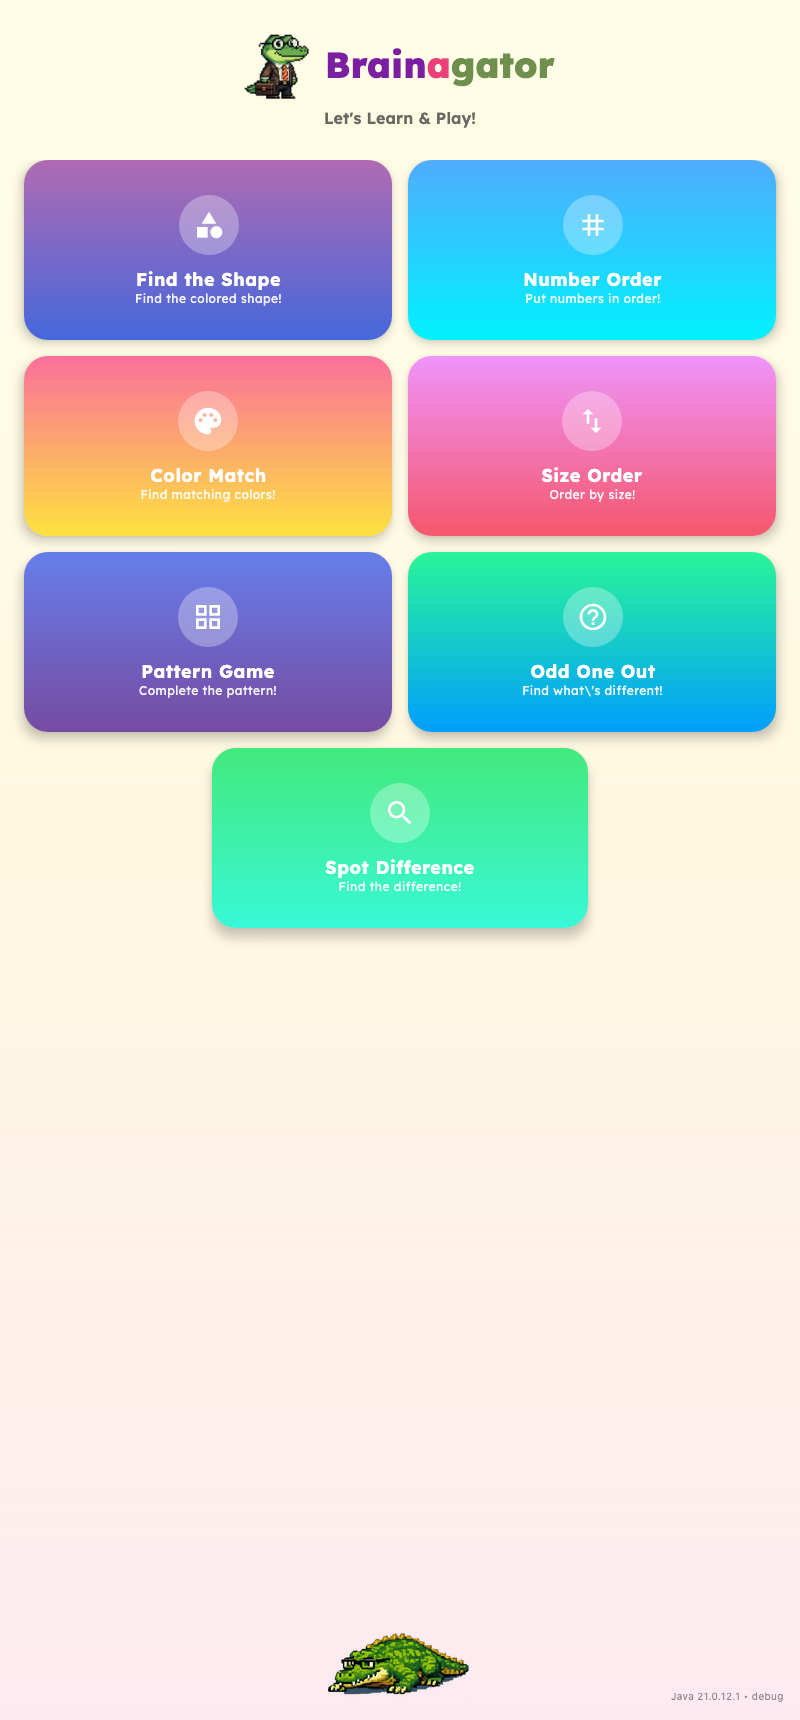
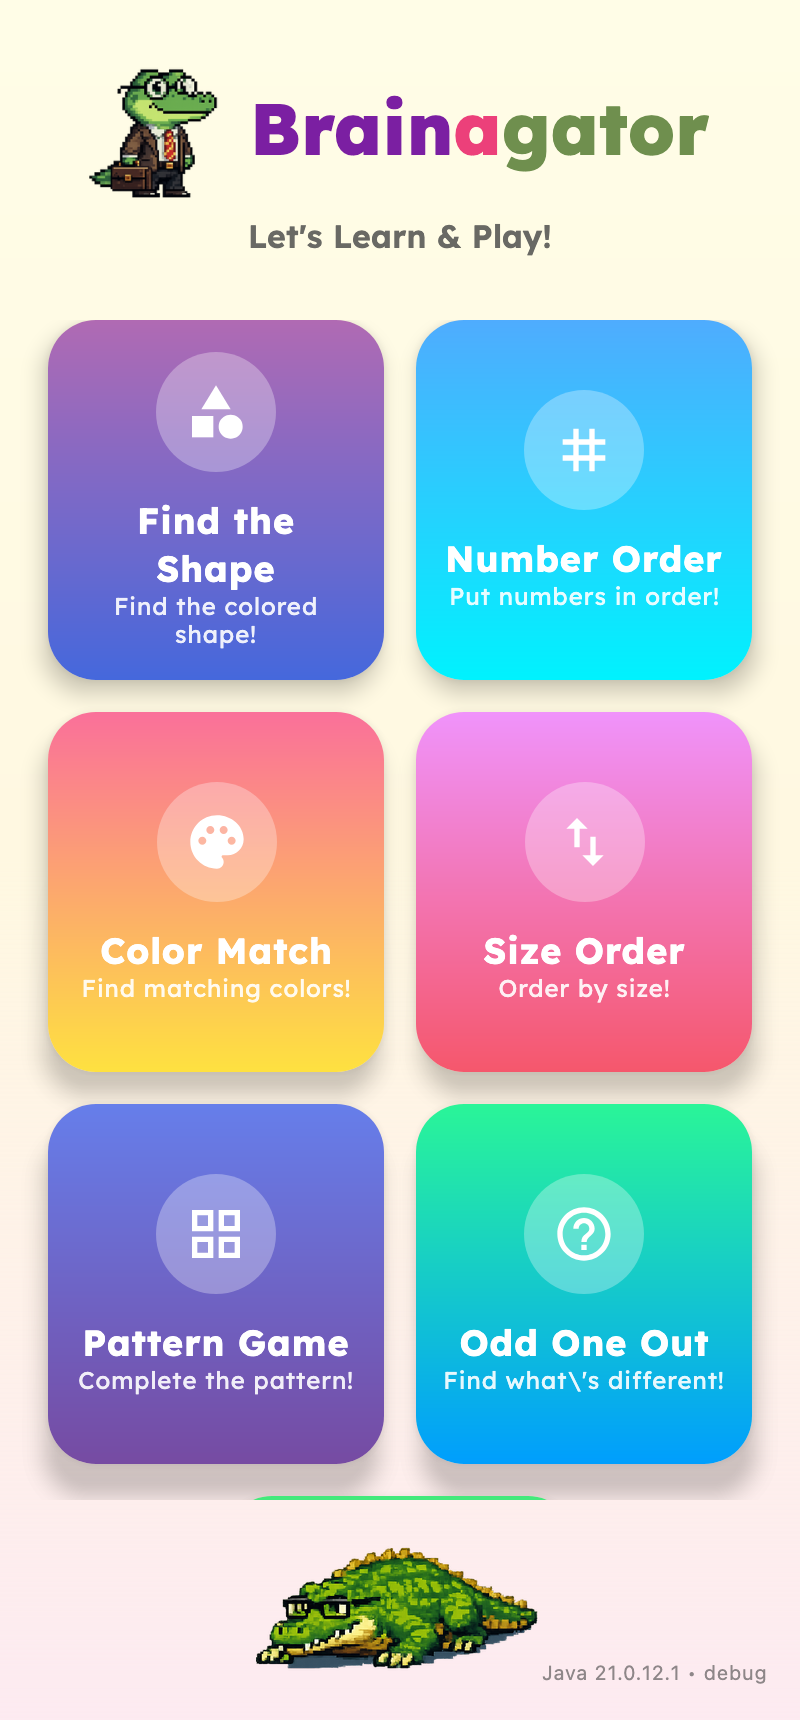
test(screenshots): pin density 2x so goldens cover 400x860dp

diff --git a/composeApp/src/jvmTest/kotlin/io/github/karczews/brainagator/DesktopScreenshotTest.kt b/composeApp/src/jvmTest/kotlin/io/github/karczews/brainagator/DesktopScreenshotTest.kt
@@ -20,10 +20,12 @@ import androidx.compose.animation.AnimatedContent
 import androidx.compose.animation.SharedTransitionLayout
 import androidx.compose.runtime.Composable
 import androidx.compose.runtime.CompositionLocalProvider
+import androidx.compose.ui.platform.LocalDensity
 import androidx.compose.ui.platform.LocalInspectionMode
 import androidx.compose.ui.test.ExperimentalTestApi
 import androidx.compose.ui.test.onRoot
 import androidx.compose.ui.test.runDesktopComposeUiTest
+import androidx.compose.ui.unit.Density
 import com.dropbox.differ.SimpleImageComparator
 import com.github.takahirom.roborazzi.RoborazziOptions
 import io.github.karczews.brainagator.theme.AppTheme
@@ -52,11 +54,15 @@ class DesktopScreenshotTest {
                 ),
         )
 
-    // Portrait 400x860dp at density 2 (800x1720px window).
+    // Portrait 400x860dp: 800x1720px window at density 2. The runner defaults
+    // to 1x (800x1720dp), so the density override is what pins the viewport.
     private fun capture(content: @Composable () -> Unit) {
         runDesktopComposeUiTest(width = VIEWPORT_WIDTH_PX, height = VIEWPORT_HEIGHT_PX) {
             setContent {
-                CompositionLocalProvider(LocalInspectionMode provides true) {
+                CompositionLocalProvider(
+                    LocalInspectionMode provides true,
+                    LocalDensity provides Density(2f),
+                ) {
                     AppTheme {
                         content()
                     }
